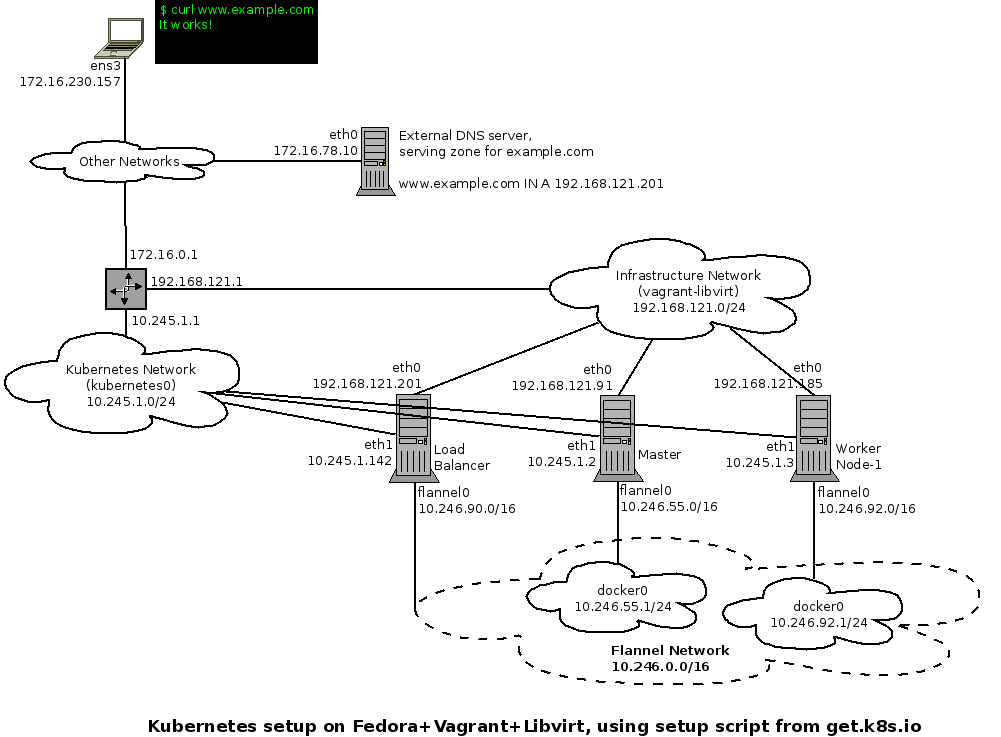
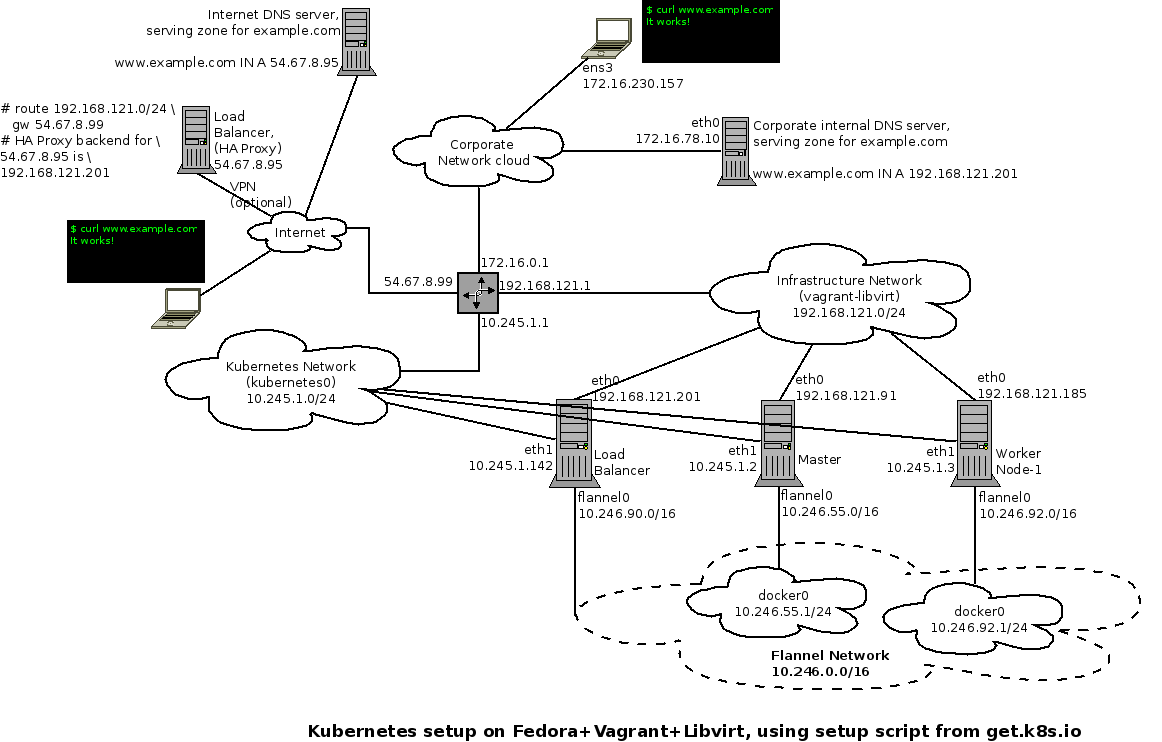
Added an external load balancer to the diagram.

diff --git a/kamran/External-LoadBalancer.md b/kamran/External-LoadBalancer.md
@@ -659,6 +659,9 @@ Hurray! It works!
 
 **We never lose!**
 
+# The network diagram:
+
+![images/Kubernetes-Cluster-With-Internal-LoadBalancer.dia ](images/Kubernetes-Cluster-With-Internal-LoadBalancer.dia)
 
 
 # More notes / future work:

diff --git a/kamran/Kubernetes-on-Vagrant-Libvirt.md b/kamran/Kubernetes-on-Vagrant-Libvirt.md
@@ -3995,8 +3995,6 @@ options ndots:5
 root@nginx-2040093540-qhcyo:/#
 ```
 
-
-
 Next part: [Kubernetes-on-Vagrant-Libvirt-part-2.md](Kubernetes-on-Vagrant-Libvirt-part-2.md)
 
 
